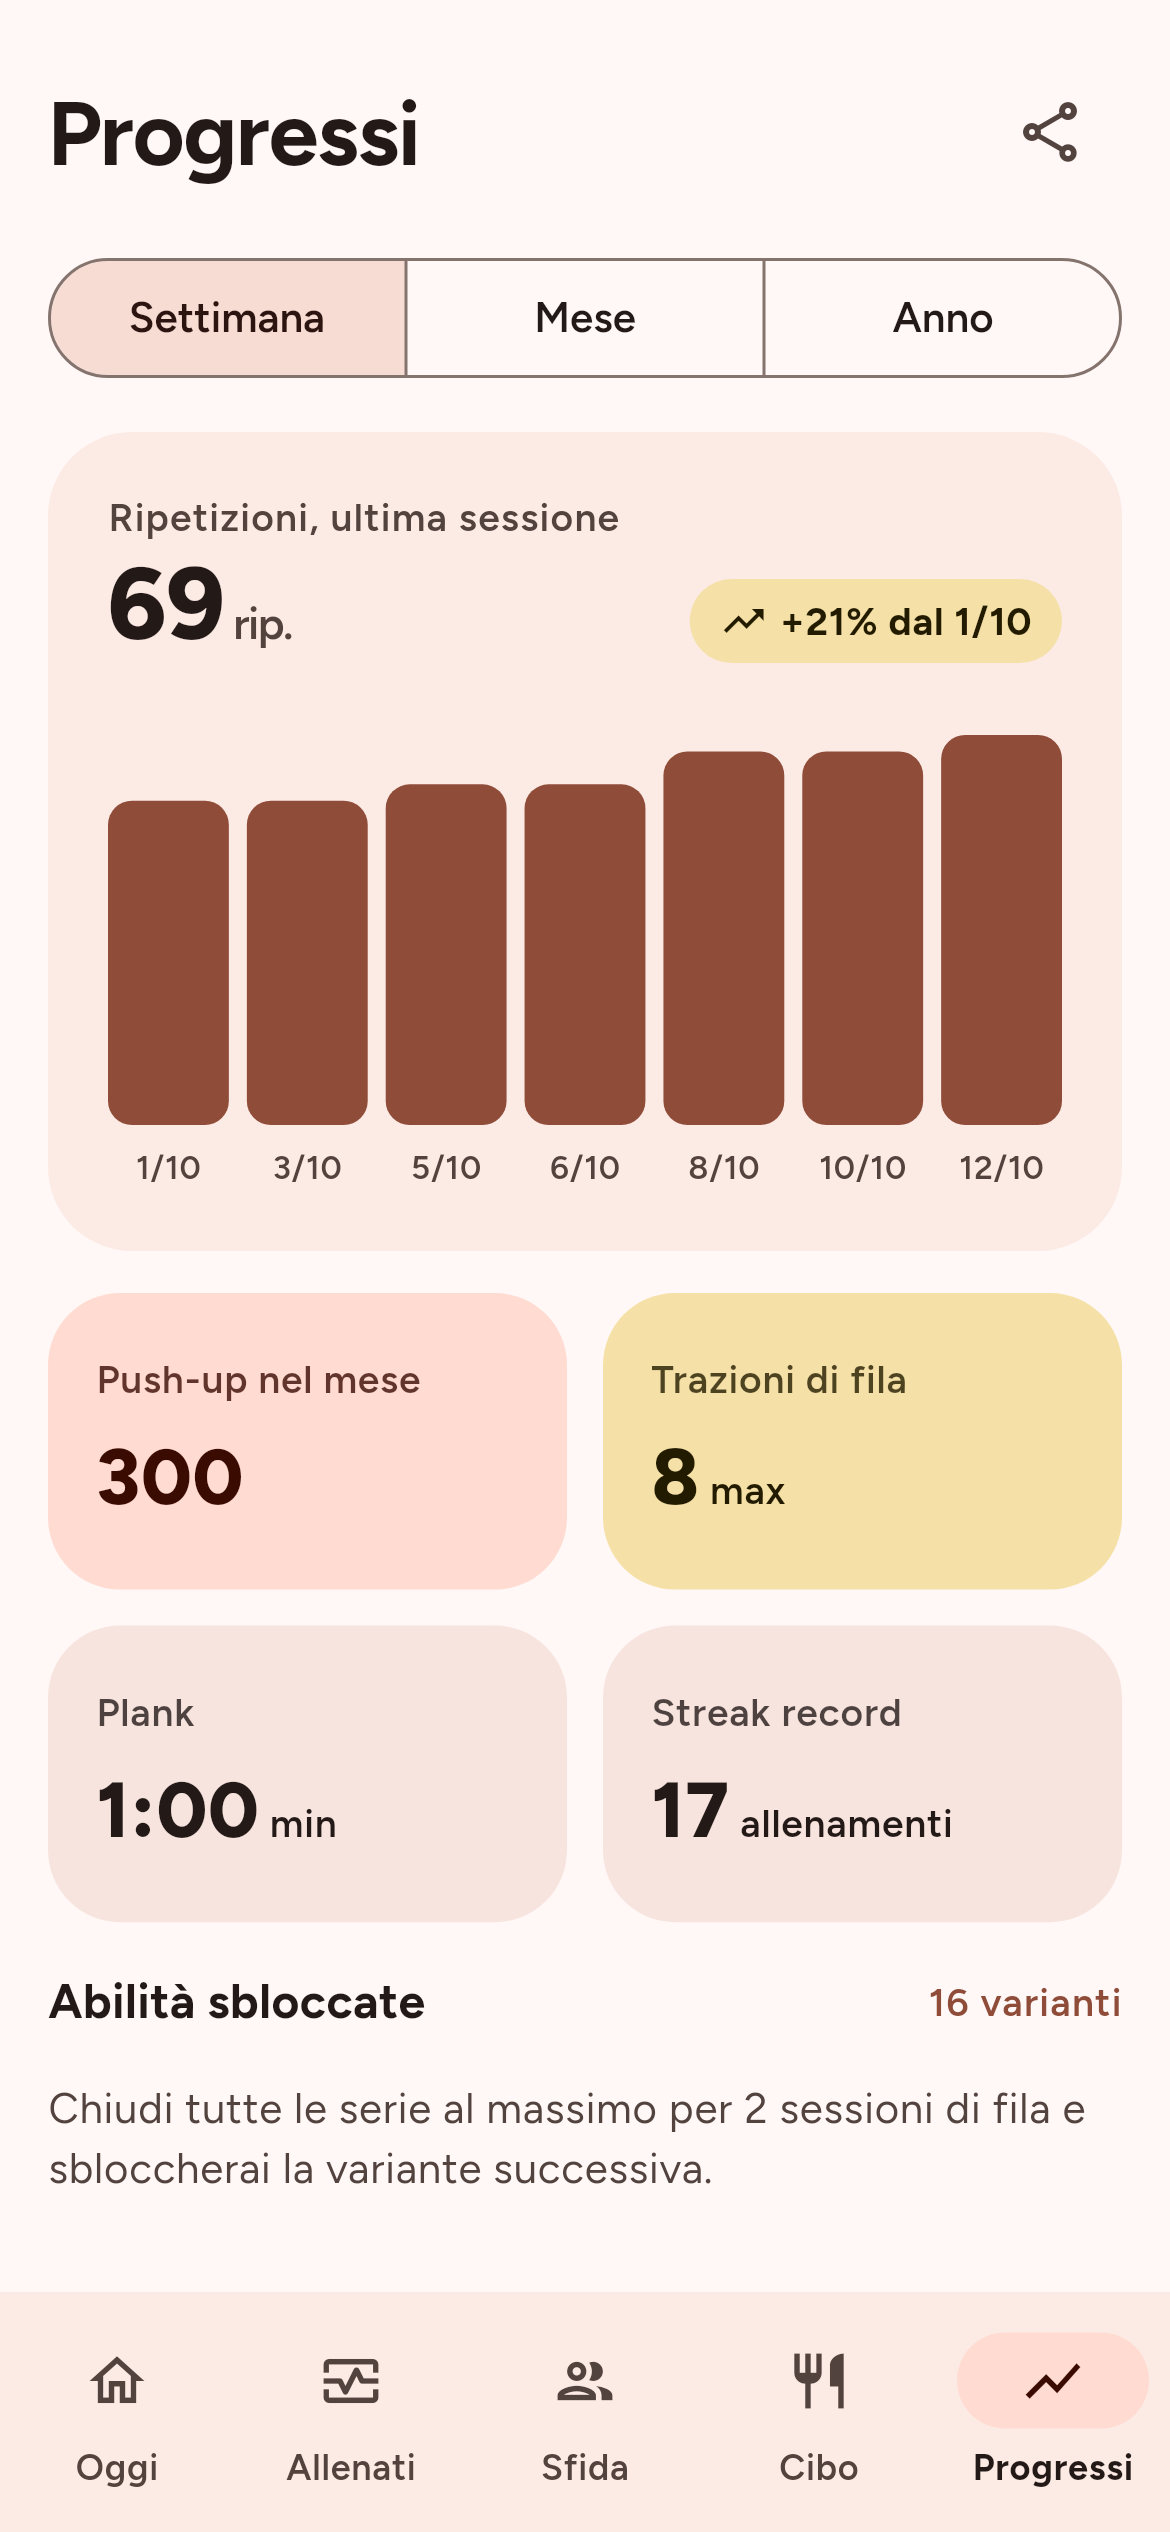
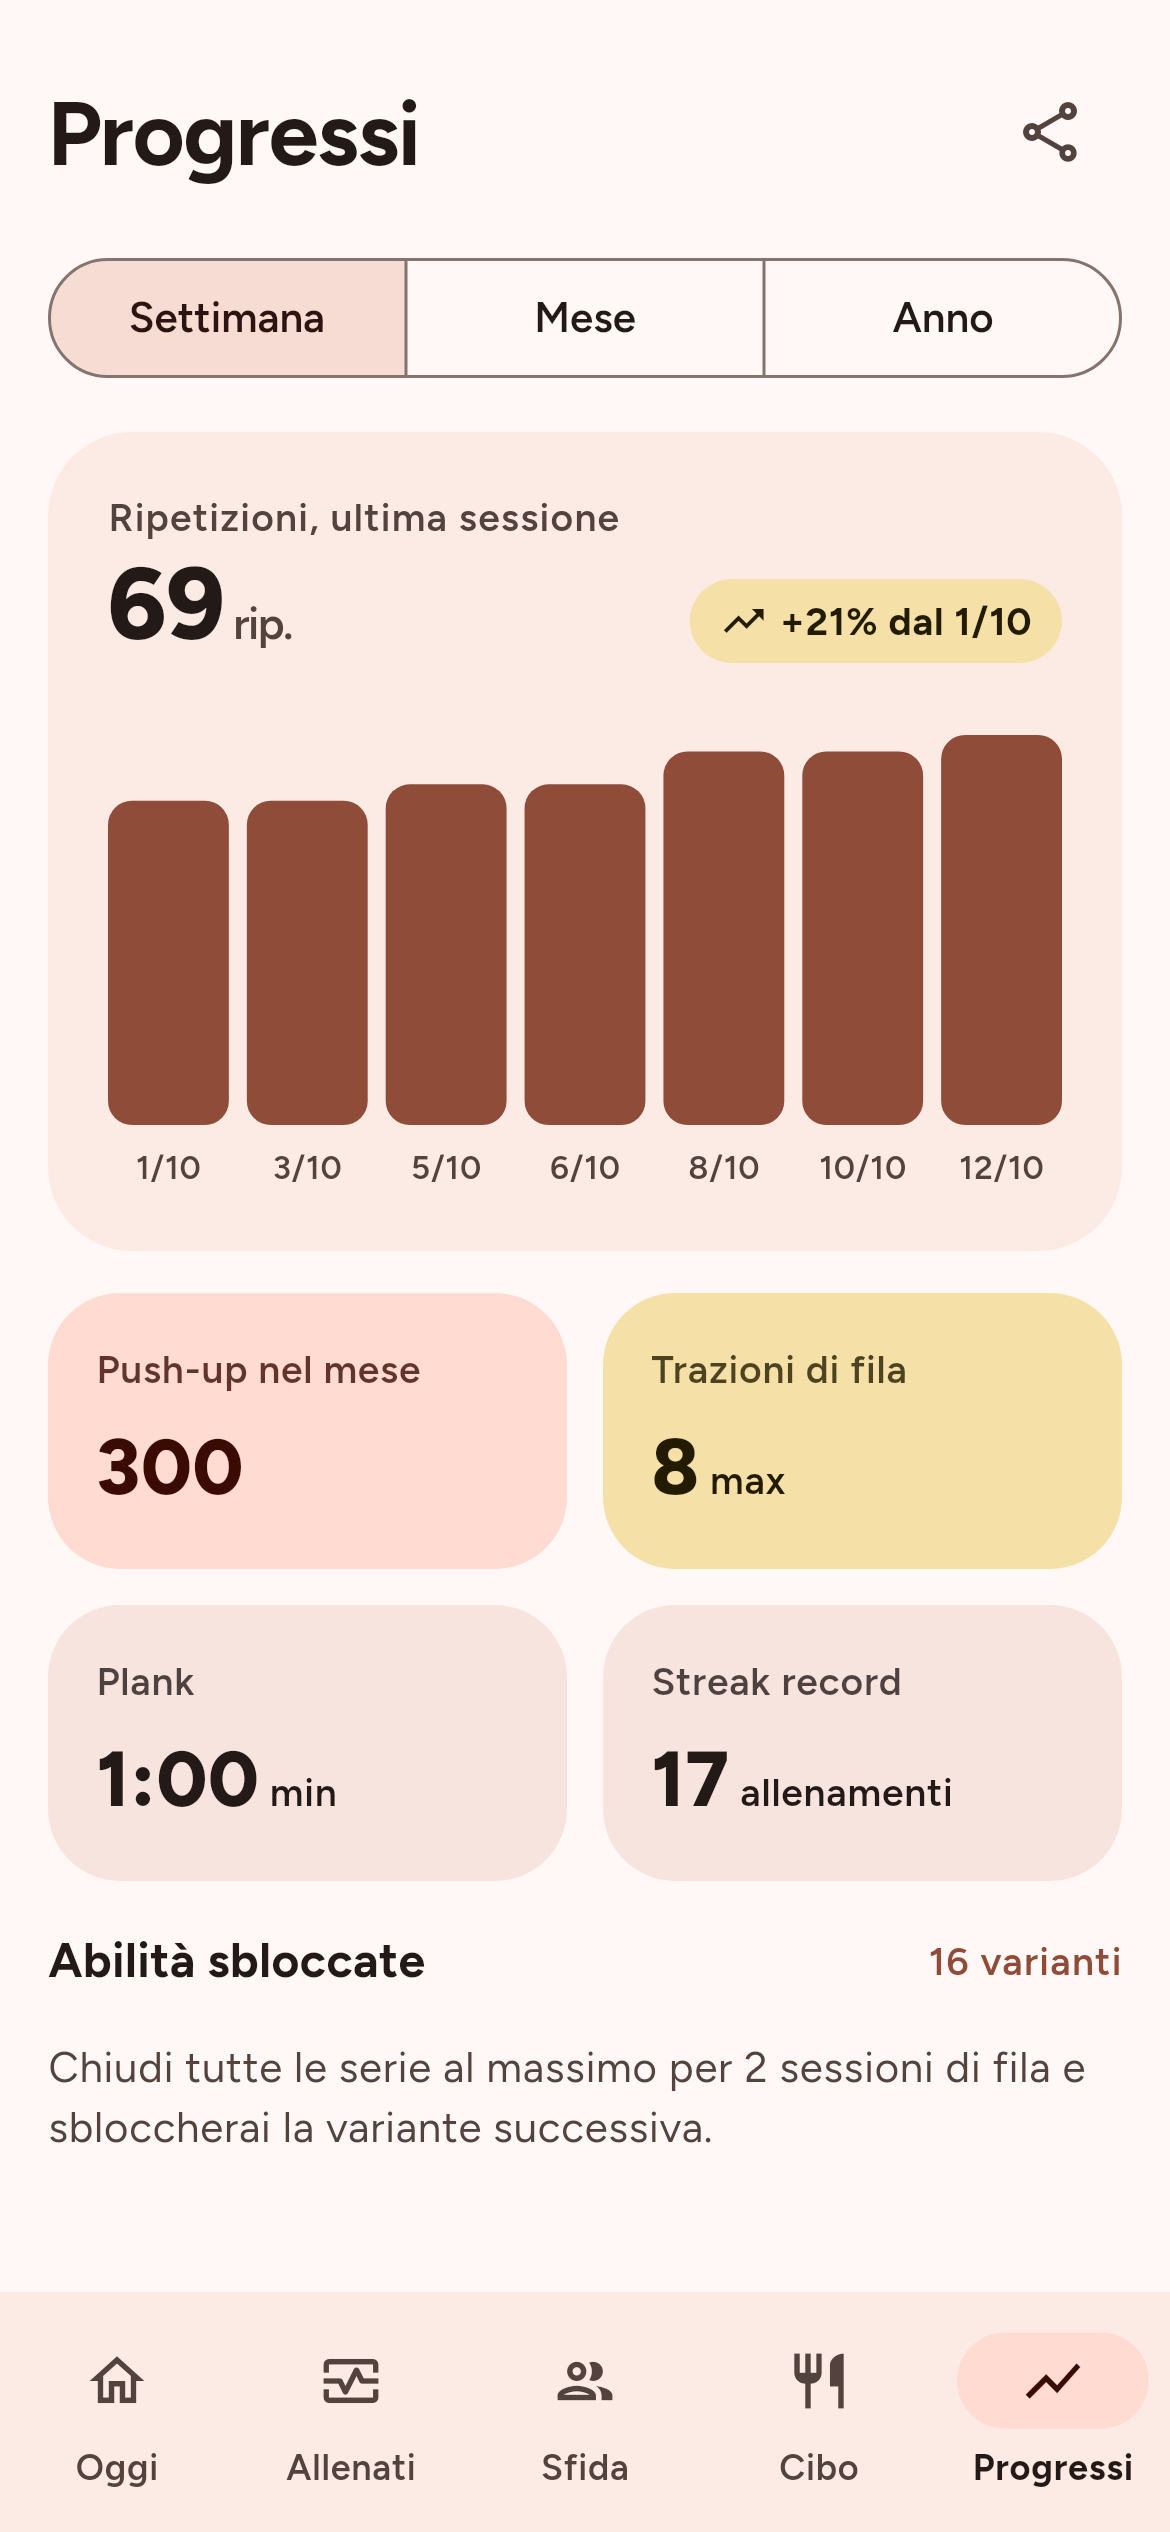
Progressi: card dei record ad altezza libera
Con testi grandi (o il carattere ingrandito del telefono) le card a
altezza fissa traboccavano.

Claude-Session: https://claude.ai/code/session_01BkUbS7JRfLLhkDDShEXDoF

Changed region(s): [[0.0308, 0.5304, 0.9538, 0.8736], [0.5231, 0.5304, 0.9538, 0.7488]]

diff --git a/lib/features/progress/progress_screen.dart b/lib/features/progress/progress_screen.dart
@@ -191,14 +191,8 @@ class ProgressScreen extends ConsumerWidget {
             ],
           ),
         ),
-        GridView.count(
-          crossAxisCount: 2,
-          shrinkWrap: true,
-          physics: const NeverScrollableScrollPhysics(),
-          mainAxisSpacing: 12,
-          crossAxisSpacing: 12,
-          childAspectRatio: 1.75,
-          children: [
+        _StatGrid(
+          tiles: [
             _StatTile(
               label: 'Push-up nel mese',
               value: _thousands(pushUps),
@@ -423,7 +417,6 @@ class _StatTile extends StatelessWidget {
       semanticsLabel: '$label: $value${unit ?? ''}',
       child: Column(
         crossAxisAlignment: CrossAxisAlignment.start,
-        mainAxisAlignment: MainAxisAlignment.center,
         spacing: 4,
         children: [
           Text(
@@ -462,4 +455,31 @@ class _StatTile extends StatelessWidget {
       ),
     );
   }
+}
+
+/// Griglia 2 × 2 ad altezza libera (regge testi grandi e accessibilità).
+class _StatGrid extends StatelessWidget {
+  const _StatGrid({required this.tiles});
+
+  final List<Widget> tiles;
+
+  @override
+  Widget build(BuildContext context) => Column(
+    spacing: 12,
+    children: [
+      for (var i = 0; i < tiles.length; i += 2)
+        IntrinsicHeight(
+          child: Row(
+            crossAxisAlignment: CrossAxisAlignment.stretch,
+            spacing: 12,
+            children: [
+              Expanded(child: tiles[i]),
+              Expanded(
+                child: i + 1 < tiles.length ? tiles[i + 1] : const SizedBox(),
+              ),
+            ],
+          ),
+        ),
+    ],
+  );
 }
